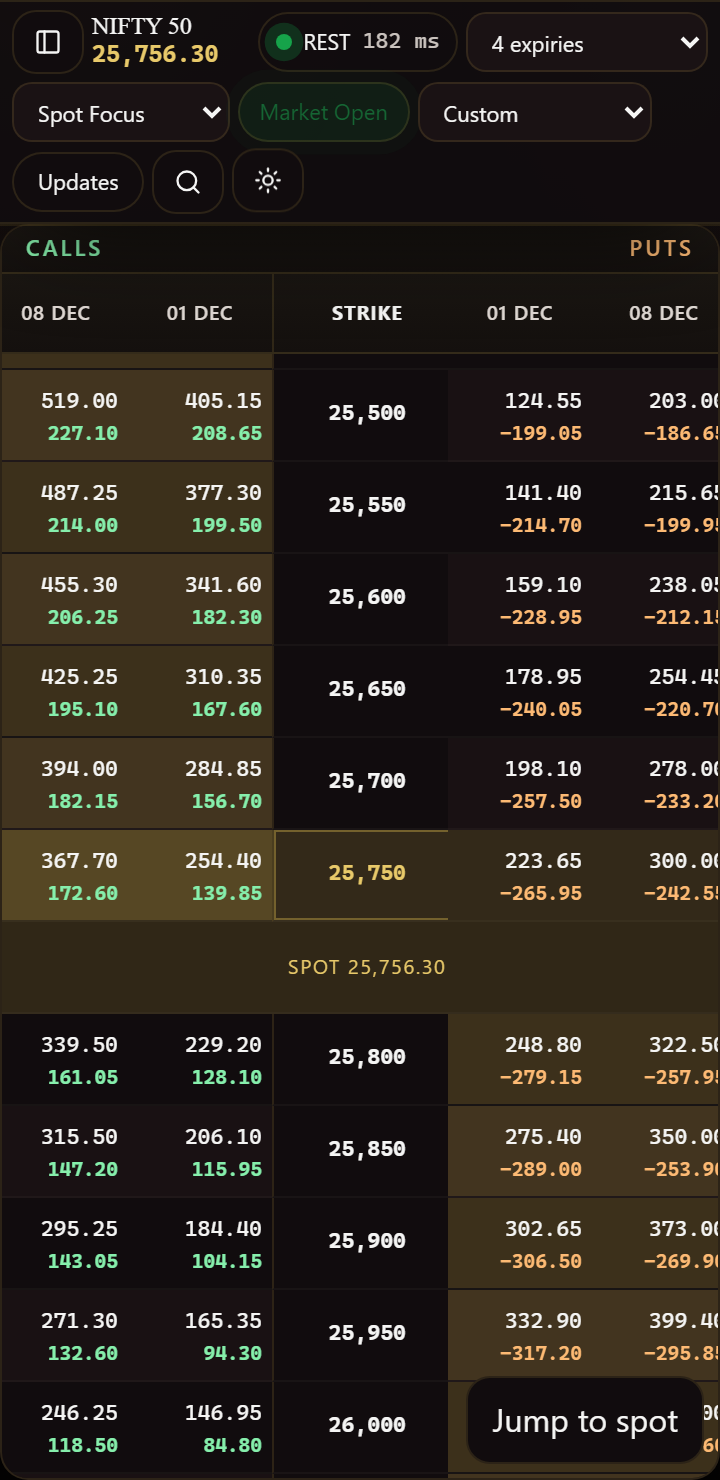
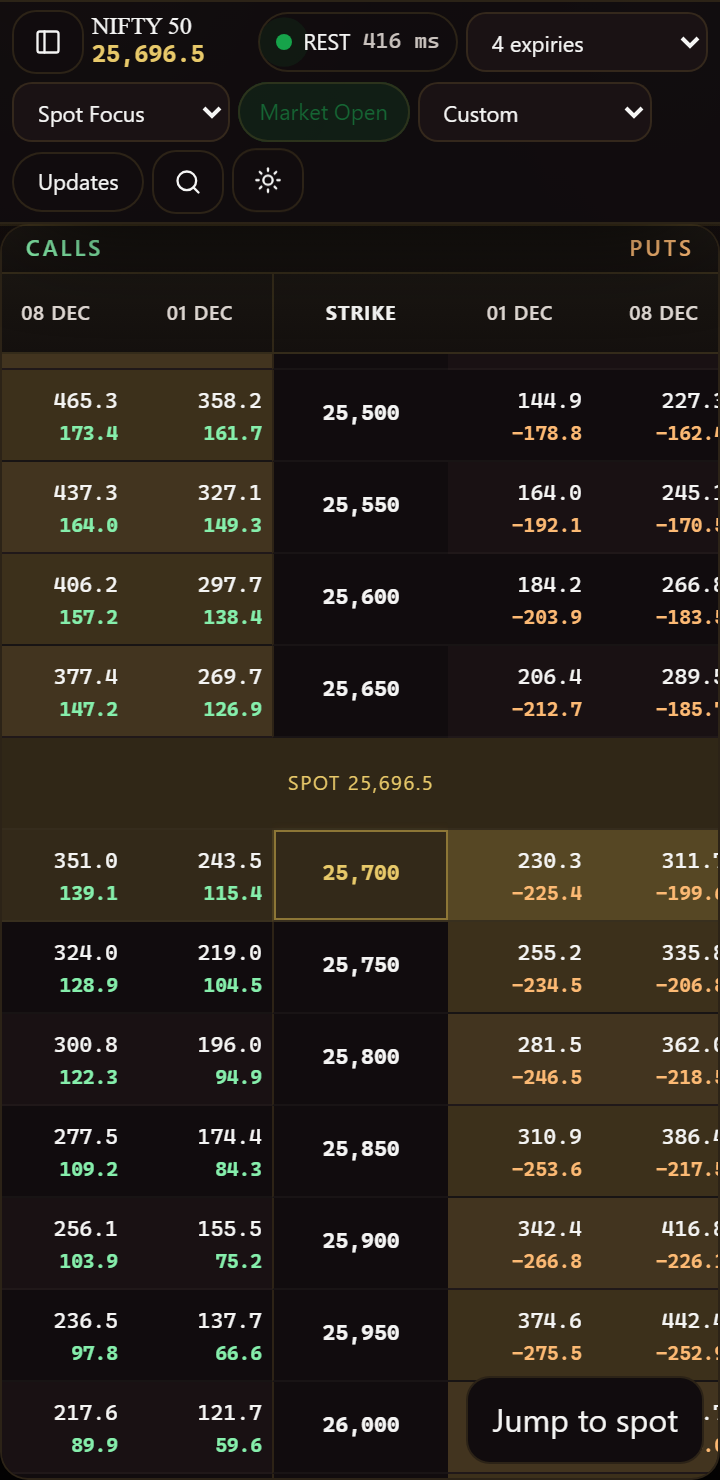
Show prices to one decimal and centre every strike.
Drop the unused depth helper, the websocket package, and the old screenshots.

diff --git a/web/src/components/option-chain-table.tsx b/web/src/components/option-chain-table.tsx
@@ -42,8 +42,9 @@ function readField(q: OptionQuote, key: ColumnKey): number | null {
 
 function renderValue(key: ColumnKey, value: number | null) {
   if (isEmptyValue(value)) return "—";
-  if (key === "ltp" || key === "bid" || key === "ask" || key === "iv") return formatPrice(value);
-  if (key === "chng" || key === "oiChg") return formatSigned(value, key === "chng" ? 2 : 0);
+  if (key === "iv") return formatNumber(value, 2);
+  if (key === "ltp" || key === "bid" || key === "ask") return formatPrice(value);
+  if (key === "chng" || key === "oiChg") return formatSigned(value, key === "chng" ? 1 : 0);
   if (key === "oi" || key === "volume") return formatCompact(value);
   if (key === "delta" || key === "theta" || key === "pChg") return formatNumber(value, 2);
   return formatNumber(value, 0);
@@ -431,7 +432,7 @@ function SideCell({
       <span className="quote-num">{renderValue(field, value)}</span>
       {field === "ltp" ? (
         <span className={cn("ltp-chng", quote.change != null && quote.change < 0 ? "tone-down" : "tone-up")}>
-          {formatSigned(quote.change, 2)}
+          {formatSigned(quote.change, 1)}
         </span>
       ) : null}
     </FlashCell>

diff --git a/web/e2e/desk.spec.ts b/web/e2e/desk.spec.ts
@@ -158,6 +158,16 @@ test("desk, density, volume shade, stream, and motion", async ({ page }, testInf
     await expect(page.locator(".rail")).toHaveClass(/is-collapsed/);
   }
 
+  const priceShape = await page.evaluate(() => {
+    const price = document.querySelector(".chain-scroll .quote-num");
+    const strike = document.querySelector("td.strike-cell");
+    return {
+      price: price?.textContent?.trim() ?? "",
+      align: strike instanceof HTMLElement ? getComputedStyle(strike).textAlign : "",
+    };
+  });
+  expect(priceShape.align).toBe("center");
+  expect(priceShape.price === "—" || /^\d[\d,]*\.\d$/.test(priceShape.price)).toBe(true);
   await expect(page.getByLabel("View")).toHaveValue("custom");
   await expect(page.locator(".side-labels")).toContainText("Calls");
   await expect(page.locator(".side-labels")).toContainText("Puts");

diff --git a/web/src/lib/format.test.ts b/web/src/lib/format.test.ts
@@ -1,11 +1,19 @@
 import { describe, expect, it } from "vitest";
 
-import { formatSigned, isEmptyValue } from "./format";
+import { formatPrice, formatSigned, isEmptyValue } from "./format";
 
 describe("formatSigned", () => {
   it("never prefixes a plus sign", () => {
     expect(formatSigned(12.5, 2)).toBe("12.50");
     expect(formatSigned(-3.25, 2)).toBe("-3.25");
+  });
+});
+
+describe("formatPrice", () => {
+  it("rounds a price to one decimal", () => {
+    expect(formatPrice(356.04)).toBe("356.0");
+    expect(formatPrice(356.05)).toBe("356.1");
+    expect(formatPrice(25756.34)).toBe("25,756.3");
   });
 });
 

diff --git a/web/src/components/instrument-tree.tsx b/web/src/components/instrument-tree.tsx
@@ -153,7 +153,7 @@ function Row({
     <div className={cn("symbol-item", active && "is-active")}>
       <button type="button" className="symbol-main" onClick={() => onSelect(item)}>
         <span>{displayName(item.symbol, item.label)}</span>
-        <em className={change != null && change < 0 ? "tone-down" : "tone-up"}>{formatSigned(change, 2)}</em>
+        <em className={change != null && change < 0 ? "tone-down" : "tone-up"}>{formatSigned(change, 1)}</em>
         <strong>{formatPrice(last)}</strong>
       </button>
       <button

diff --git a/web/src/components/quote-sheet.tsx b/web/src/components/quote-sheet.tsx
@@ -64,8 +64,8 @@ function QuoteCard({
 }) {
   const items = [
     ["LTP", formatPrice(quote.lastPrice)],
-    ["Chng", formatSigned(quote.change, 2)],
-    ["IV", formatPrice(quote.iv)],
+    ["Chng", formatSigned(quote.change, 1)],
+    ["IV", formatNumber(quote.iv, 2)],
     ["OI", formatCompact(quote.oi)],
     ["Chng in OI", formatSigned(quote.oiChg, 0)],
     ["Volume", formatCompact(quote.volume)],

diff --git a/web/src/lib/format.ts b/web/src/lib/format.ts
@@ -33,7 +33,7 @@ export function formatPrice(value: number | null | undefined): string {
   if (value === null || value === undefined || !Number.isFinite(value) || value === 0) {
     return "—";
   }
-  return formatNumber(value, 2);
+  return formatNumber(value, 1);
 }
 
 export function formatCompact(value: number | null | undefined): string {

diff --git a/web/src/components/custom-ltp-board.tsx b/web/src/components/custom-ltp-board.tsx
@@ -272,7 +272,7 @@ function PriceCell({
     >
       <span className="quote-num">{formatPrice(value)}</span>
       <span className={cn("ltp-chng", change != null && change < 0 ? "tone-down" : "tone-up")}>
-        {formatSigned(change, 2)}
+        {formatSigned(change, 1)}
       </span>
     </td>
   );

diff --git a/web/src/app/globals.css b/web/src/app/globals.css
@@ -2076,3 +2076,11 @@ html.dark .inward-captions .pe-zone {
   margin: 0;
   background: transparent;
 }
+
+.chain-table th.strike-cell,
+.chain-table td.strike-cell {
+  text-align: center !important;
+  vertical-align: middle;
+  padding-left: 0 !important;
+  padding-right: 0 !important;
+}

diff --git a/web/docs/interface.md b/web/docs/interface.md
@@ -20,7 +20,7 @@ The NSE columns are OI, Chng in OI, Volume, IV, LTP, Chng, and % Chng. Bid Qty, 
 
 Gold is high volume, blue is low volume, grey is zero volume. A green flash is a higher print and a red flash is a lower print. There is no gold line under a round strike. Clicking a strike opens a card with Calls on one side and Puts on the other.
 
-Spot Focus keeps the 18 strikes below the at-the-money strike and the 18 above it. All Strikes shows the whole book. Jump to spot scrolls Custom and the option chain. The page itself does not scroll.
+Spot Focus keeps the 18 strikes below the at-the-money strike and the 18 above it. All Strikes shows the whole book. Strike numbers sit in the centre of the column. Prices and price changes show one decimal. Implied volatility stays at two decimals. Jump to spot scrolls Custom and the option chain. The page itself does not scroll.
 
 ## Mobile
 
